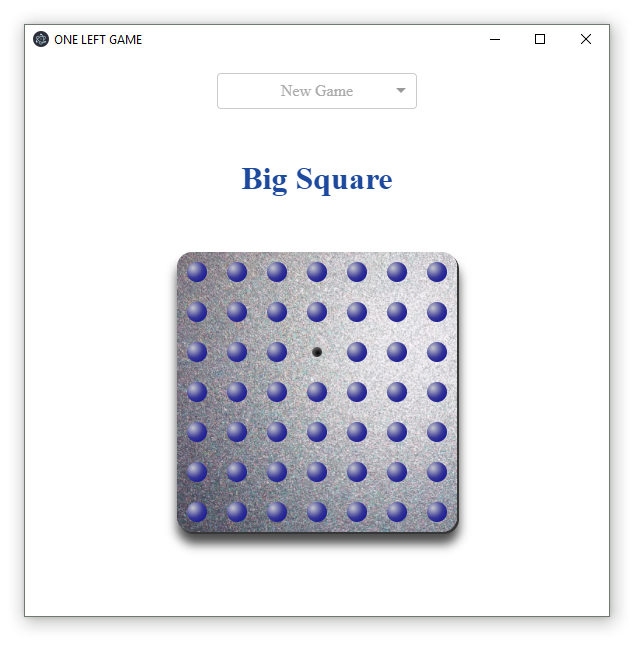
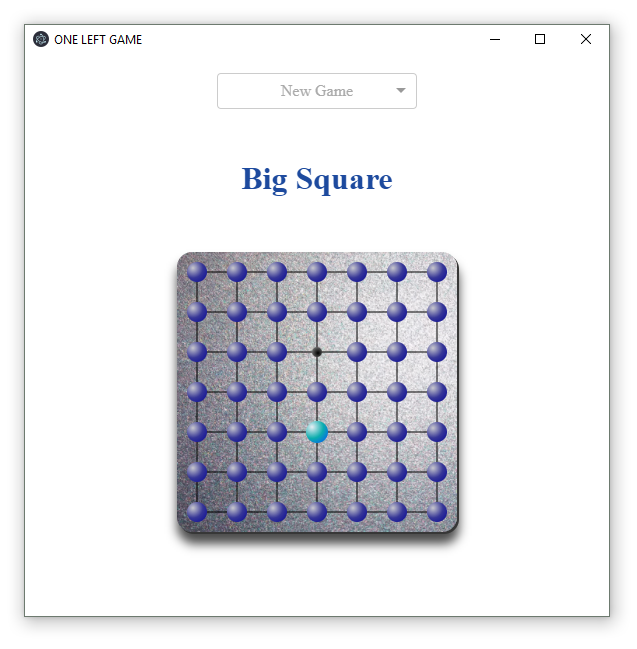
draw lines for possible movements

Changed region(s): [[0.4772, 0.6471, 0.5369, 0.7088], [0.4772, 0.5547, 0.5071, 0.5855]]

diff --git a/app/components/Game.js b/app/components/Game.js
@@ -66,10 +66,73 @@ class BoardMatrix extends Component {
     );
   }
 
+  renderHorizontalLines(){
+    const n = Math.sqrt(this.props.squares.length);
+    let response = [];
+    let x1=0, x2=0, y=0;
+
+    for(let row=0;row<n;row++){
+      y=((row*100/(n))+(100/(2*n)))+'%';
+      for(let i=0;i<n-1;i++){
+        x1=((i*100/(n))+0.5*(100/n))+'%'; 
+        x2=((i*100/(n))+1.5*(100/n))+'%';
+        if(this.props.squares[n*row+ i] && this.props.squares[n*row+i+1] && this.props.squares[n*row+i]!=='e' && this.props.squares[n*row+i+1]!=='e')
+          response.push(<line x1={x1} y1={y} x2={x2} y2={y} stroke="black"/>)
+      }
+    }
+    return response;
+  }
+
+  renderVerticalLines(){
+    const n = Math.sqrt(this.props.squares.length);
+    let response = [];
+    let y1=0, y2=0, x=0;
+
+
+    for(let col=0;col<n;col++){
+      y1=((col*100/(n))+0.5*(100/n))+'%';
+      y2=((col*100/(n))+1.5*(100/n))+'%';
+      for(let i=0;i<n;i++){
+        x=((i*100/(n))+0.5*(100/n))+'%'; 
+        if( this.props.squares[n*col+i] && this.props.squares[n*col+i+n] && this.props.squares[n*col+i]!=='e' && this.props.squares[n*col+i+n]!=='e')
+          response.push(<line x1={x} y1={y1} x2={x} y2={y2} stroke="black"/>)
+      }
+    }
+    return response;
+  }
+
+  renderDiagonalLines(){
+    const n = Math.sqrt(this.props.squares.length);
+    let response = [];
+    let y1=0, y2=0, x1=0, x2=0;
+
+    for(let col=0;col<n;col++){
+      y1=((col*100/(n))+0.5*(100/n))+'%';
+      y2=((col*100/(n))+1.5*(100/n))+'%';
+      for(let i=1;i<n;i++){
+        x1=((i*100/(n))+0.5*(100/n))+'%'; 
+        x2=((i*100/(n))-0.5*(100/n))+'%'; 
+        if( this.props.squares[n*col+i] && this.props.squares[n*col+i+n-1] 
+          && this.props.squares[n*col+i]!=='e' && this.props.squares[n*col+i+n-1]!=='e'
+        )
+          response.push(<line x1={x1} y1={y1} x2={x2} y2={y2} stroke="black"/>)
+        }
+    }
+    return response;
+  }
+
   render() {
+    let horizontalLines = [];
+    let verticalLines = [];
+    let diagonalLines = [];
+    horizontalLines.push(this.renderHorizontalLines(this.props.squares.length));
+    verticalLines.push(this.renderVerticalLines(this.props.squares.length));
+    if(this.props.isDiagAllowed){
+      diagonalLines.push(this.renderDiagonalLines(this.props.squares.length));
+    }
     // consider the board as being always a perfect square, so...
     // take n from the length of the board configuration
-    const rows = Math.sqrt(this.props.squares.length); // totalLen=49, n=7
+    const rows = Math.sqrt(this.props.squares.length); // totalLen=49 n=7 , totalLen=25 n=5
     const cols = rows;
     let response = [];
     for(let i=0;i<rows;i++){
@@ -78,6 +141,13 @@ class BoardMatrix extends Component {
 
     return (
       <div>
+         <div className="divLines">
+          <svg width="auto" height="auto">
+          {horizontalLines}
+          {verticalLines}
+          {diagonalLines}
+          </svg>
+        </div>
         {response}
       </div>
     );
@@ -96,6 +166,7 @@ function GameTable(props){
         squares={props.squares} 
         chosenPin={props.chosenPin}
         onClick={props.onClick}
+        isDiagAllowed={props.rotation==='rotate(45deg)'}
           />
       </div>
     </div>
@@ -140,24 +211,19 @@ class Game extends Component {
     //3-11 16-12-8
 
     const numHorizontalPins = Math.sqrt(this.state.squares.length);
-    console.log('from '+origin + ' to '+ destiny);
     let middlePinPosition;
     const diff = destiny-origin;//24-10=14
     if(diff === (2*numHorizontalPins) && this.state.squares[origin+numHorizontalPins] ==='p'){ // down
       middlePinPosition = origin+numHorizontalPins;
-      console.log('middlePinPosition down '+ middlePinPosition);
     }
     else if(diff === -(2*numHorizontalPins) && this.state.squares[origin-numHorizontalPins] ==='p' ) { // up
       middlePinPosition = origin-numHorizontalPins;
-      console.log('middlePinPosition up '+ middlePinPosition);
     }
     else if(diff === 2 && this.state.squares[origin+1] ==='p' ) { // right
       middlePinPosition = origin+1;
-      console.log('middlePinPosition right '+ middlePinPosition);
     }
     else if(diff === -2 && this.state.squares[origin-1] ==='p') { // left
       middlePinPosition = origin-1;
-      console.log('middlePinPosition left '+ middlePinPosition);
     }
     else if (isDiagAllowed){
       if(diff === (2*numHorizontalPins+2) && this.state.squares[origin+numHorizontalPins+1] ==='p' ) { // topright
@@ -193,7 +259,6 @@ class Game extends Component {
   
   handleClick(i) {
     // Clicked a pin (chosen or not)
-    console.log(i);
     if(this.state.squares[i]==='p' || this.state.squares[i]==='c'){
       this.setState({
         chosenPin : this.state.chosenPin === i ? null : i
@@ -204,15 +269,9 @@ class Game extends Component {
         this.tryMove(this.state.chosenPin, i, this.state.rotation==='rotate(45deg)');
       }
     }
-    else {
-      // Ignore click (empty space)
-      console.log('EMPTY SPACE');
-    }
   }
 
   handleBoardNameChange(event) {
-    console.log('event = ');
-    console.log(event);
     const boardName = event.value;
     this.setState({
       boardName: boardName,

diff --git a/app/app.global.css b/app/app.global.css
@@ -22,6 +22,16 @@
     width: 100%;
     z-index: 9999;
   }
+
+  .divLines{
+    height: 100%;
+    left: 0;
+    position: fixed;
+    top: 0;
+    width: 100%;
+    z-index: -1;
+  }
+
   
   .Square-board{
     /*height: 280px;*/
